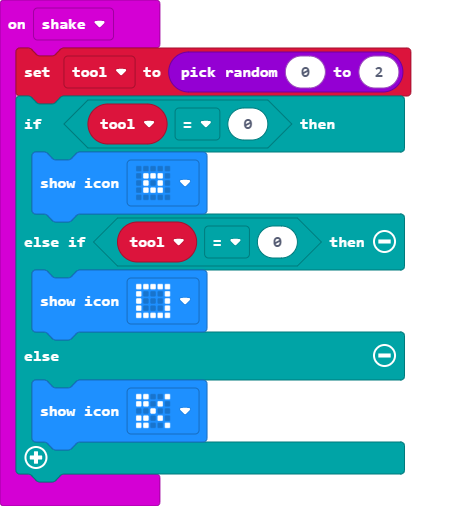
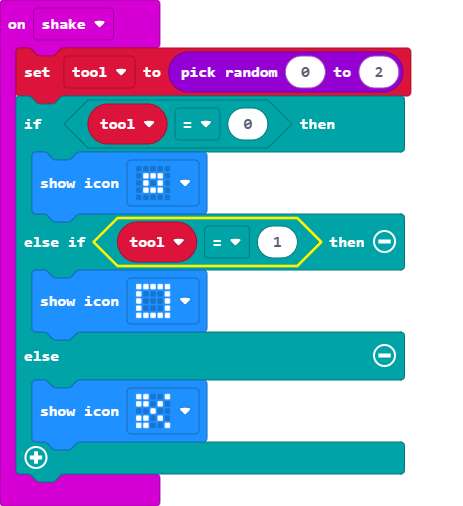
Update main.blocks, main.ts

Changed region(s): [[0.1814, 0.4447, 0.6652, 0.5336], [0.2419, 0.415, 0.6652, 0.4447], [0.6652, 0.4447, 0.6955, 0.504]]

diff --git a/main.ts b/main.ts
@@ -3,7 +3,7 @@ input.onGesture(Gesture.Shake, function () {
     tool = randint(0, 2)
     if (tool == 0) {
         basic.showIcon(IconNames.SmallSquare)
-    } else if (tool == 0) {
+    } else if (tool == 1) {
         basic.showIcon(IconNames.Square)
     } else {
         basic.showIcon(IconNames.Scissors)
